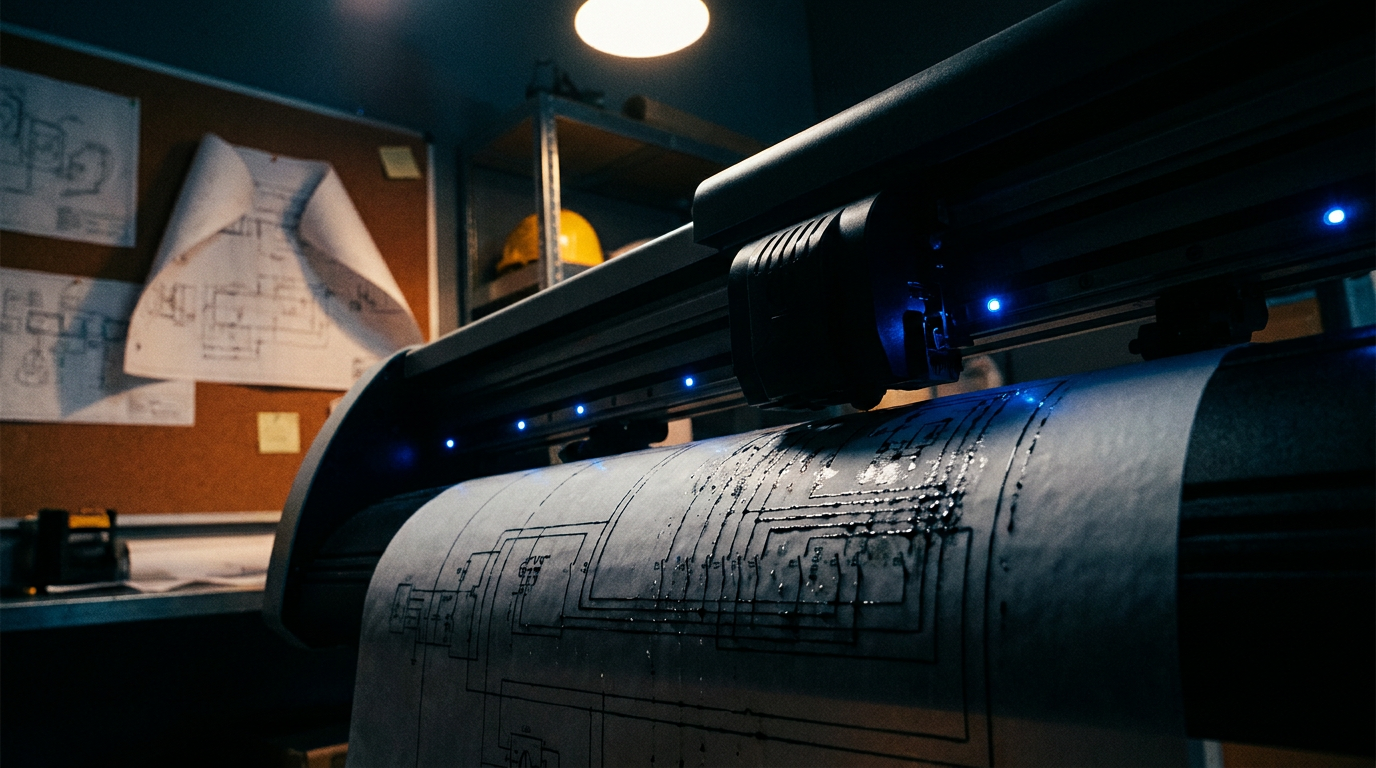
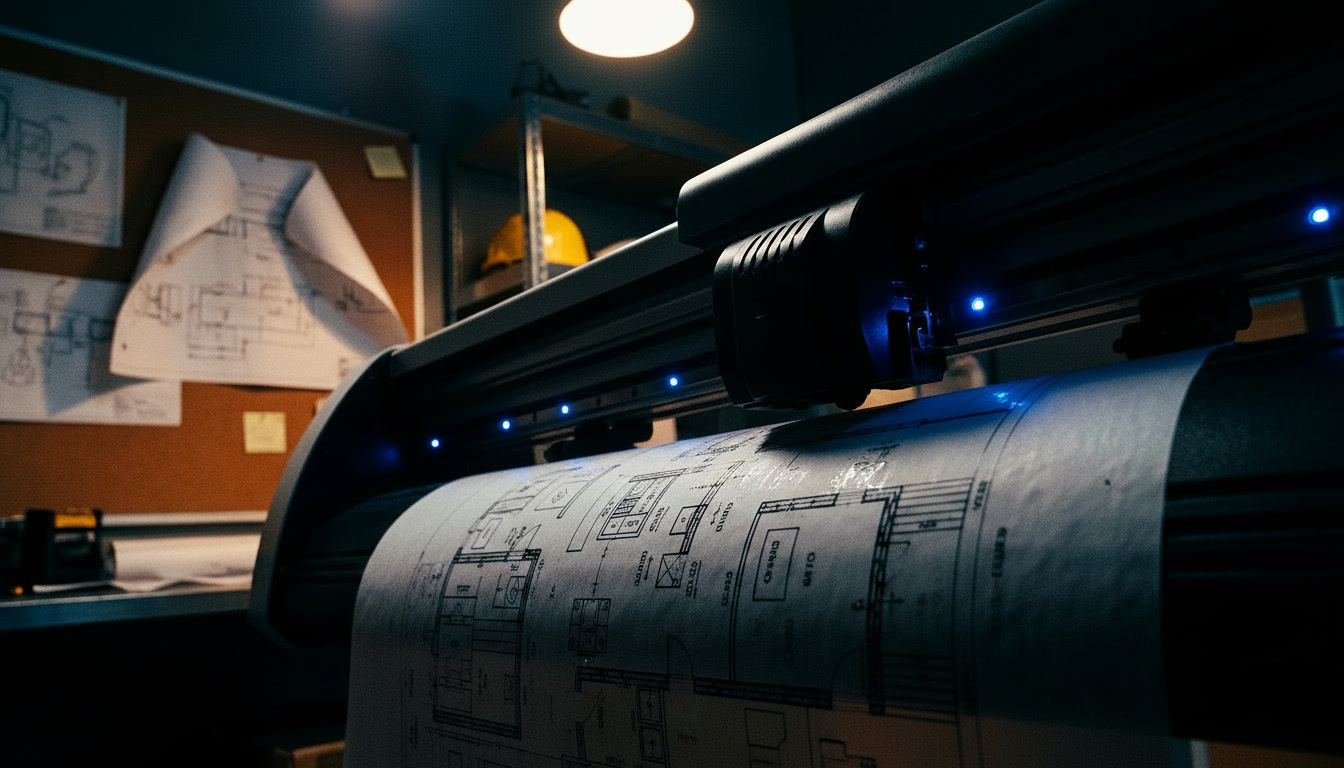
feat: :sparkles: implementar hero carrusel + rediseño de footer

diff --git a/src/styles/masthead.css b/src/styles/masthead.css
@@ -1,17 +1,26 @@
+/* ── Masthead: dark default → light on scroll ── */
+
 .masthead {
-  border-bottom: 1px solid var(--ink);
-  background: color-mix(in srgb, var(--sheet) 88%, transparent);
+  border-bottom: 1px solid rgba(255, 255, 255, 0.12);
+  background: rgba(13, 15, 14, 0.85);
   backdrop-filter: blur(6px);
-  position: sticky;
+  position: fixed;
   top: 0;
+  left: 0;
+  right: 0;
   z-index: 60;
   height: var(--masthead-h);
   flex-shrink: 0;
-  transition: height 300ms var(--ease-out-expo);
+  transition:
+    height 300ms var(--ease-out-expo),
+    background 300ms var(--ease-out-expo),
+    border-color 300ms var(--ease-out-expo);
 }
 
 html.scrolled .masthead {
   height: var(--masthead-h-sm);
+  background: color-mix(in srgb, var(--sheet) 88%, transparent);
+  border-bottom-color: var(--ink);
 }
 
 .masthead-inner {
@@ -29,6 +38,8 @@ html.scrolled .masthead {
 html.scrolled .masthead-inner {
   height: var(--masthead-h-sm);
 }
+
+/* ── Brand / logos ── */
 
 .brand {
   display: flex;
@@ -54,17 +65,23 @@ html.scrolled .brand {
   object-fit: contain;
 }
 
+/* Full logo */
 .brand-logo-full {
   grid-area: 1 / 1;
   height: 58px;
   max-width: 260px;
-  opacity: 1;
-  transform: scale(1);
   transition:
     opacity 250ms var(--ease-out-expo),
     transform 300ms var(--ease-out-expo);
 }
 
+.brand-logo-full--light { opacity: 1; transform: scale(1); }
+.brand-logo-full--dark  { opacity: 0; transform: scale(0.92); pointer-events: none; position: absolute; }
+
+html.scrolled .brand-logo-full--light { opacity: 0; transform: scale(0.92); pointer-events: none; }
+html.scrolled .brand-logo-full--dark  { opacity: 1; transform: scale(1); position: relative; }
+
+/* Mini logo */
 .brand-logo-mini {
   grid-area: 1 / 1;
   justify-self: start;
@@ -79,16 +96,11 @@ html.scrolled .brand {
     transform 300ms var(--ease-out-expo);
 }
 
-html.scrolled .brand-logo-full {
-  opacity: 0;
-  transform: scale(0.92);
-  pointer-events: none;
-}
+.brand-logo-mini--light { position: absolute; }
+.brand-logo-mini--dark  { position: absolute; }
 
-html.scrolled .brand-logo-mini {
-  opacity: 1;
-  transform: scale(1);
-}
+html.scrolled .brand-logo-mini--light { opacity: 1; transform: scale(1); position: relative; }
+html.scrolled .brand-logo-mini--dark  { opacity: 0; }
 
 .brand-name {
   font-stretch: 112%;
@@ -102,6 +114,8 @@ html.scrolled .brand-logo-mini {
 .brand-name strong {
   font-weight: 800;
 }
+
+/* ── Nav links ── */
 
 .masthead .nav {
   display: flex;
@@ -119,10 +133,15 @@ html.scrolled .brand-logo-mini {
   letter-spacing: 0.12em;
   text-transform: uppercase;
   text-decoration: none;
-  color: var(--ink-2);
-  border-left: 1px solid var(--line-soft);
+  color: rgba(255, 255, 255, 0.7);
+  border-left: 1px solid rgba(255, 255, 255, 0.12);
   position: relative;
-  transition: color 200ms var(--ease-out-expo);
+  transition: color 200ms var(--ease-out-expo), border-color 300ms var(--ease-out-expo);
+}
+
+html.scrolled .masthead .nav a {
+  color: var(--ink-2);
+  border-left-color: var(--line-soft);
 }
 
 .masthead .nav a::after {
@@ -139,16 +158,26 @@ html.scrolled .brand-logo-mini {
 }
 
 .masthead .nav a:last-child {
-  border-right: 1px solid var(--line-soft);
+  border-right: 1px solid rgba(255, 255, 255, 0.12);
+}
+
+html.scrolled .masthead .nav a:last-child {
+  border-right-color: var(--line-soft);
 }
 
 .masthead .nav a:hover {
+  color: #4ade80;
+}
+
+html.scrolled .masthead .nav a:hover {
   color: var(--green-deep);
 }
 
 .masthead .nav a:hover::after {
   transform: scaleX(1);
 }
+
+/* ── Phone / WhatsApp button ── */
 
 .phone {
   align-self: center;
@@ -288,21 +317,31 @@ html.scrolled .phone-num {
   justify-content: center;
   gap: 5px;
   background: none;
-  border: 1px solid var(--line);
+  border: 1px solid rgba(255, 255, 255, 0.25);
   width: 44px;
   height: 44px;
   padding: 0 10px;
   cursor: pointer;
   align-self: center;
+  transition: border-color 300ms var(--ease-out-expo);
+}
+
+html.scrolled .hamburger {
+  border-color: var(--line);
 }
 
 .hamburger span {
   display: block;
   height: 1.5px;
-  background: var(--ink);
+  background: #fff;
   transition:
     transform 250ms var(--ease-out-expo),
-    opacity 200ms;
+    opacity 200ms,
+    background 300ms var(--ease-out-expo);
+}
+
+html.scrolled .hamburger span {
+  background: var(--ink);
 }
 
 .hamburger[aria-expanded="true"] span:nth-child(1) {

diff --git a/src/styles/footer.css b/src/styles/footer.css
@@ -1,19 +1,18 @@
-/* Cajetín de cierre: mismo idioma que el resto de la landing —
-   papel, retícula de replanteo, bordes ink y sombra dura. */
+/* Footer — dark theme */
 .footer {
-  background-color: var(--paper);
+  background-color: #0d0f0e;
   background-image:
-    linear-gradient(to right, var(--grid) 1px, transparent 1px),
-    linear-gradient(to bottom, var(--grid) 1px, transparent 1px),
-    linear-gradient(to right, var(--grid-strong) 1px, transparent 1px),
-    linear-gradient(to bottom, var(--grid-strong) 1px, transparent 1px);
+    linear-gradient(to right, rgba(255,255,255,0.03) 1px, transparent 1px),
+    linear-gradient(to bottom, rgba(255,255,255,0.03) 1px, transparent 1px),
+    linear-gradient(to right, rgba(255,255,255,0.06) 1px, transparent 1px),
+    linear-gradient(to bottom, rgba(255,255,255,0.06) 1px, transparent 1px);
   background-size:
     28px 28px,
     28px 28px,
     140px 140px,
     140px 140px;
-  border-top: 1px solid var(--ink);
-  color: var(--ink);
+  border-top: 1px solid rgba(255, 255, 255, 0.1);
+  color: #fff;
 }
 
 .footer-inner {
@@ -24,6 +23,10 @@
 
 .footer-rule {
   margin-bottom: clamp(1.75rem, 4vw, 2.5rem);
+}
+
+.footer-rule .tag {
+  color: rgba(255, 255, 255, 0.4);
 }
 
 .footer-grid {
@@ -44,7 +47,7 @@
   margin-top: 1rem;
   font-size: 0.9rem;
   line-height: 1.6;
-  color: var(--ink-2);
+  color: rgba(255, 255, 255, 0.55);
   max-width: 32ch;
 }
 
@@ -53,8 +56,8 @@
   margin-top: 1.25rem;
   align-items: center;
   gap: 0.5rem;
-  background: var(--green);
-  color: var(--sheet);
+  background: #22c55e;
+  color: #0d0f0e;
   font-family: var(--font-mono);
   font-size: 0.75rem;
   font-weight: 700;
@@ -62,8 +65,8 @@
   text-transform: uppercase;
   text-decoration: none;
   padding: 0.7rem 1rem;
-  border: 1px solid var(--ink);
-  box-shadow: 3px 3px 0 var(--ink);
+  border: 1px solid rgba(255, 255, 255, 0.15);
+  box-shadow: 3px 3px 0 rgba(255, 255, 255, 0.08);
   transition:
     background 200ms var(--ease-out-expo),
     transform 150ms var(--ease-out-expo),
@@ -71,14 +74,14 @@
 }
 
 .footer-cta:hover {
-  background: var(--green-deep);
+  background: #16a34a;
   transform: translate(-1px, -1px);
-  box-shadow: 4px 4px 0 var(--ink);
+  box-shadow: 4px 4px 0 rgba(255, 255, 255, 0.1);
 }
 
 .footer-cta:active {
   transform: translate(2px, 2px);
-  box-shadow: 1px 1px 0 var(--ink);
+  box-shadow: 1px 1px 0 rgba(255, 255, 255, 0.06);
 }
 
 .footer-title {
@@ -88,7 +91,7 @@
   font-weight: 700;
   letter-spacing: 0.16em;
   text-transform: uppercase;
-  color: var(--ink);
+  color: #fff;
   display: flex;
   align-items: center;
   gap: 0.5rem;
@@ -98,8 +101,8 @@
   content: "";
   width: 0.55rem;
   height: 0.55rem;
-  background: var(--green);
-  border: 1px solid var(--ink);
+  background: #22c55e;
+  border: 1px solid rgba(255, 255, 255, 0.2);
   flex-shrink: 0;
 }
 
@@ -114,7 +117,7 @@
 
 .footer-list a,
 .footer-contact a {
-  color: var(--ink-2);
+  color: rgba(255, 255, 255, 0.6);
   text-decoration: none;
   font-size: 0.9rem;
   text-underline-offset: 3px;
@@ -125,14 +128,14 @@
 
 .footer-list a:hover,
 .footer-contact a:hover {
-  color: var(--green-deep);
+  color: #4ade80;
   text-decoration: underline;
   padding-left: 0.25rem;
 }
 
 .footer-contact {
   font-size: 0.9rem;
-  color: var(--ink-2);
+  color: rgba(255, 255, 255, 0.6);
 }
 
 .footer-meta {
@@ -140,7 +143,7 @@
   font-size: 0.7rem;
   letter-spacing: 0.12em;
   text-transform: uppercase;
-  color: var(--ink-3);
+  color: rgba(255, 255, 255, 0.35);
 }
 
 .footer-bottom {
@@ -150,11 +153,11 @@
   justify-content: space-between;
   gap: 1rem 1.5rem;
   padding-top: 1.25rem;
-  border-top: 1px solid var(--line);
+  border-top: 1px solid rgba(255, 255, 255, 0.1);
   font-family: var(--font-mono);
   font-size: 0.72rem;
   letter-spacing: 0.04em;
-  color: var(--ink-3);
+  color: rgba(255, 255, 255, 0.35);
 }
 
 .footer-dev {
@@ -167,6 +170,7 @@
   display: block;
   height: 22px;
   width: auto;
+  filter: invert(1);
 }
 
 @media (max-width: 60rem) {

diff --git a/src/styles/hero.css b/src/styles/hero.css
@@ -1,10 +1,10 @@
 .hero {
   position: relative;
-  min-height: calc(100svh - var(--masthead-h));
+  min-height: 100svh;
   display: flex;
   align-items: center;
   justify-content: center;
-  padding: clamp(5.5rem, 12vw, 8rem) clamp(1rem, 4vw, 2.5rem) clamp(2rem, 5vw, 4rem);
+  padding: calc(var(--masthead-h) + clamp(2rem, 5vw, 4rem)) clamp(1rem, 4vw, 2.5rem) clamp(2rem, 5vw, 4rem);
   overflow: hidden;
   box-sizing: border-box;
   transition:
@@ -12,23 +12,13 @@
     min-height 300ms var(--ease-out-expo);
 }
 
-html.scrolled .hero {
-  min-height: calc(100svh - var(--masthead-h-sm));
-}
-
 @media (min-width: 54.01rem) {
   .hero {
-    height: calc(100vh - var(--masthead-h));
-    height: calc(100svh - var(--masthead-h));
+    height: 100svh;
     min-height: 540px;
     max-height: none;
-    padding-top: clamp(1rem, 3vh, 2rem);
+    padding-top: calc(var(--masthead-h) + clamp(1rem, 3vh, 2rem));
     padding-bottom: clamp(1rem, 3vh, 2rem);
-  }
-
-  html.scrolled .hero {
-    height: calc(100vh - var(--masthead-h-sm));
-    height: calc(100svh - var(--masthead-h-sm));
   }
 
   .hero-grid {
@@ -387,7 +377,7 @@ html.scrolled .hero {
     height: auto;
     min-height: auto;
     max-height: none;
-    padding-top: clamp(4.5rem, 16vw, 7rem);
+    padding-top: calc(var(--masthead-h) + clamp(1.5rem, 6vw, 3rem));
     padding-bottom: clamp(3rem, 8vw, 5rem);
   }
 

diff --git a/src/data/hero.ts b/src/data/hero.ts
@@ -4,7 +4,7 @@ export interface HeroMetric {
 }
 
 export const heroMetrics: HeroMetric[] = [
-  { tag: "Equipo", value: "4 profesionales" },
+  { tag: "Equipo", value: "6 profesionales" },
   { tag: "Firmas", value: "CAP + CIP" },
   { tag: "Sede", value: "Lima, Perú" },
 ];
